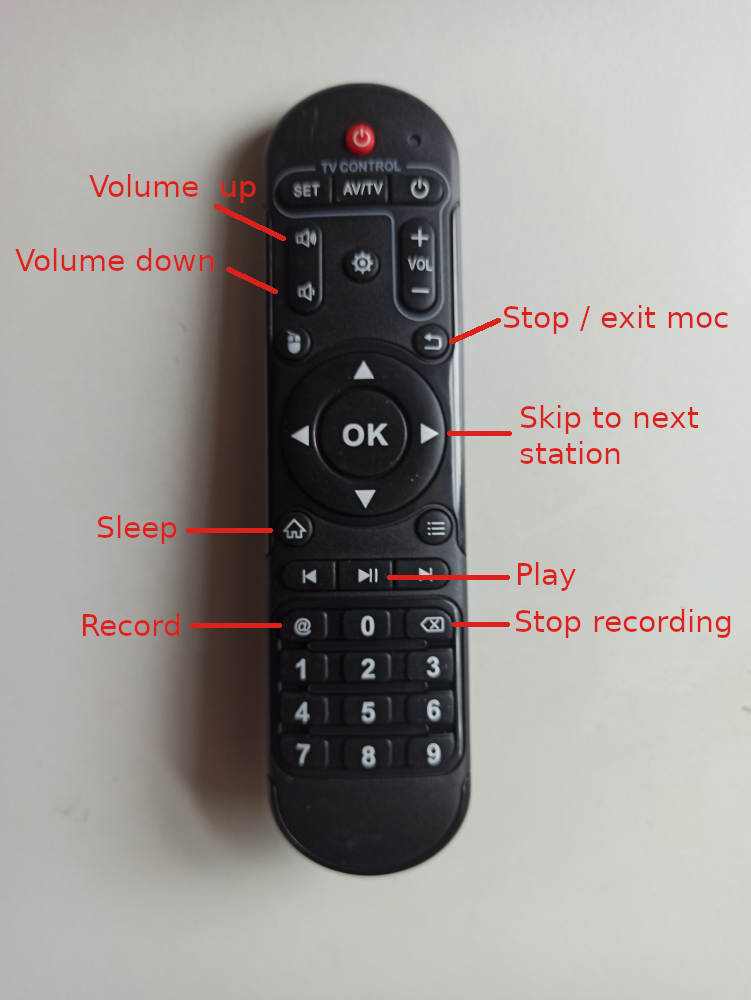
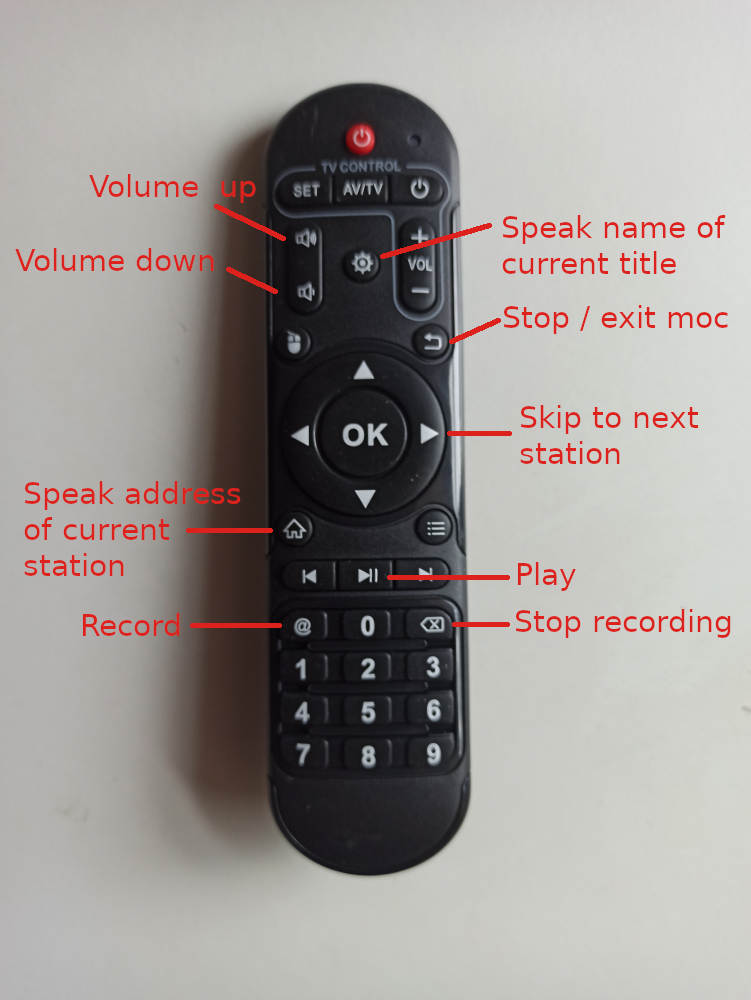
Update documentation to cover espeak text-to-speech

Changed region(s): [[0.0306, 0.465, 0.3063, 0.589], [0.5513, 0.217, 0.98, 0.279], [0.49, 0.248, 0.5513, 0.279]]

diff --git a/README.md b/README.md
@@ -4,7 +4,9 @@
 
 ![X96 Max Plus pic](https://github.com/danboid/TVBIRR/blob/main/images/x96Max%2B.jpg)
 
-**TVBIRR** uses [music on console (moc)](http://moc.daper.net/) to stream channels and playlists, [keybinder](https://github.com/elopez/keybinder.git) to convert the infrared remote keypresses into commands, [JACK](https://jackaudio.org/) for audio playback and streams are recorded to MP3 files using [jack_capture](https://github.com/kmatheussen/jack_capture). You can see when **jack_capture** is recording the currently playing station because **CARD** is displayed on the TV box LED display. You can easily customise it to play playlists of locally stored music too. TVBIRR runs in the background leaving your TV box free to serve other tasks.
+**TVBIRR** uses [music on console (moc)](http://moc.daper.net/) to stream channels and playlists, [keybinder](https://github.com/elopez/keybinder.git) to convert the infrared remote keypresses into commands, [JACK](https://jackaudio.org/) for audio playback, streams are recorded to MP3 files using [jack_capture](https://github.com/kmatheussen/jack_capture) and [espeak](http://espeak.sourceforge.net/) is used to speak the names of titles (tracks or shows) and stations.
+
+You can see when **jack_capture** is recording the currently playing station because **CARD** is displayed on the TV box LED display. You can easily customise it to play playlists of locally stored music too. TVBIRR runs in the background leaving your TV box free to serve other tasks.
 
 ## Requirements
 
